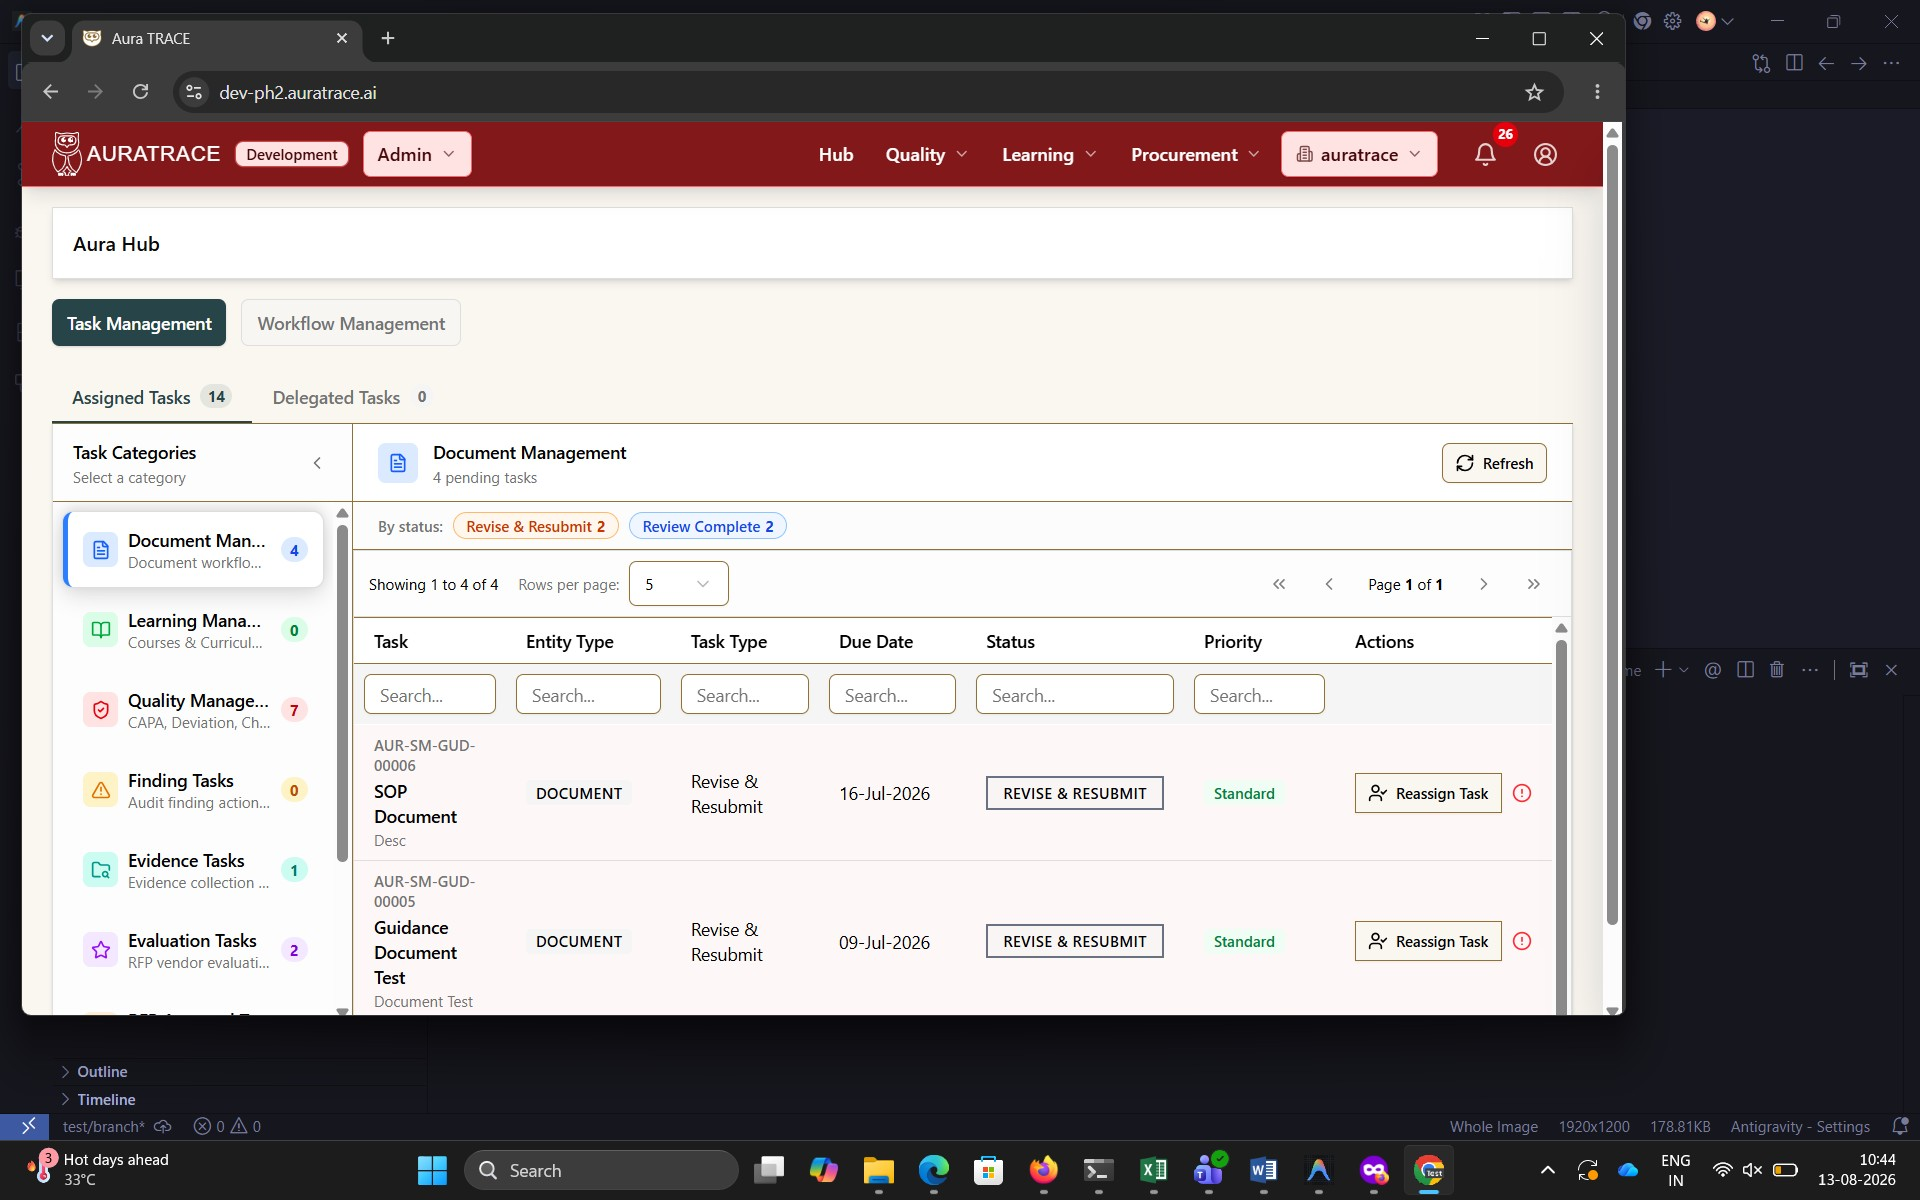
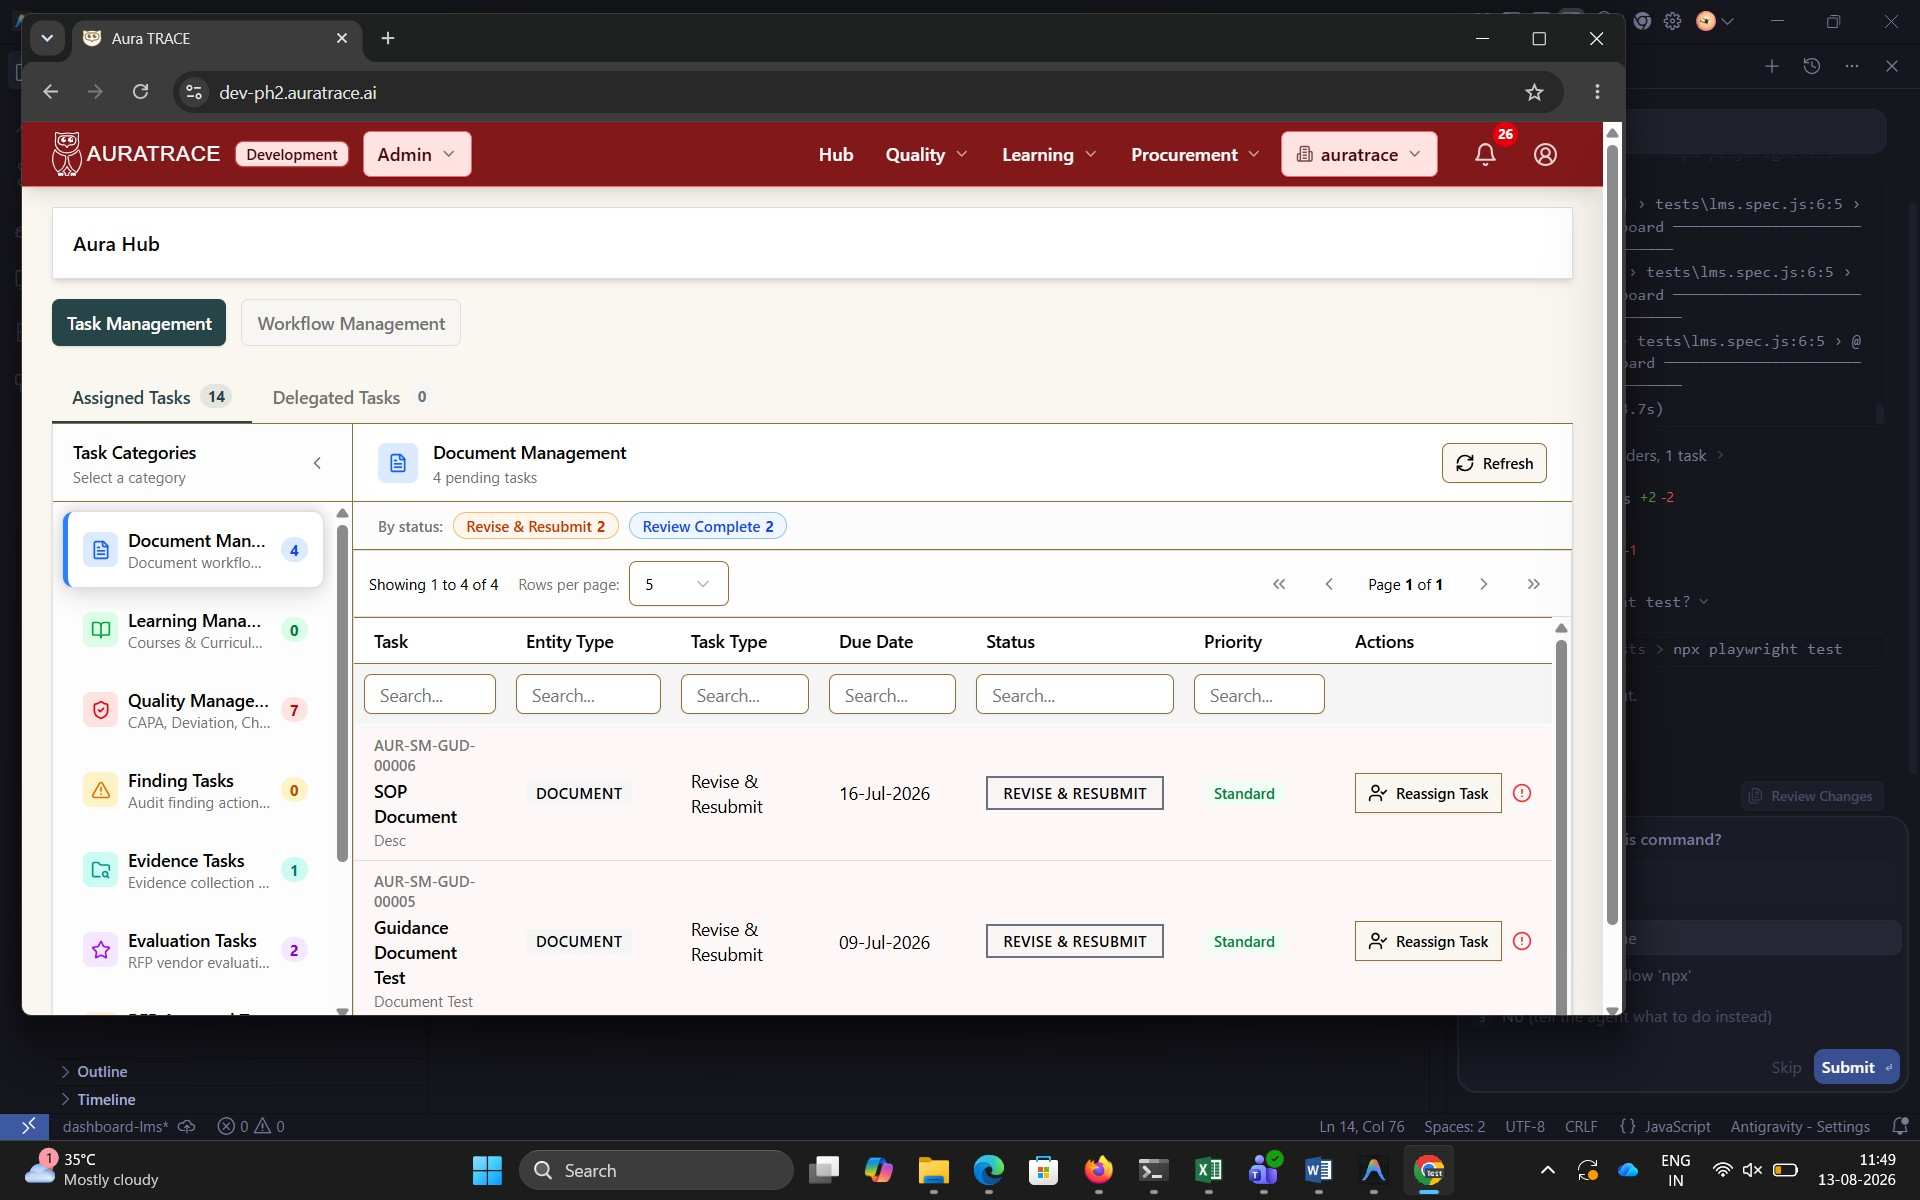
lms-dashboard

diff --git a/pages/lms.js b/pages/lms.js
@@ -1,19 +1,18 @@
-import screenshotDesktop from "screenshot-desktop";
-
-
+import screenshot from "screenshot-desktop";
 
 class lms {
 
     constructor(page){
     this.page = page;
     this.lmbtn = '//span[text()="Learning"]';
-    this.myLrn = `//div//div//a[text()='My Learning Dashboard']`;
+    this.myLrn = `//div//div//a[text()='Course Management']`;
  }
 
   async learningDashboard() {
     await this.page.locator(this.lmbtn).click();
     await this.page.locator(this.myLrn).click();
-    await screenshot({ filename: './screenshots-lms/lmsDashboard-page.jpg',fullpage: true });
+    await this.page.waitForURL('https://dev-ph2.auratrace.ai/lms/courses');
+    await screenshot({ filename: './screenshots/coursemanagement-page.jpg',fullpage: true });
     
 
 
@@ -21,3 +20,5 @@ class lms {
 
  
 }
+
+export default lms;

diff --git a/tests/lms.spec.js b/tests/lms.spec.js
@@ -1,10 +1,12 @@
-import {test} from playwright/test;
-import { lms } from '../pages/lms.js';
+import {test} from "@playwright/test";
+import LMS from '../pages/lms.js';
+import loginPage from "../pages/loginPage.js";
 
 
 test("@lms LMS dashboard",async({page})=>{
-    const lms = new lms(page);
+   
     const login = new loginPage(page);
+    const lms = new LMS(page);
     await login.goto();
     await login.login('admin@auratrace.ai', 'admin');
     await lms.learningDashboard();
